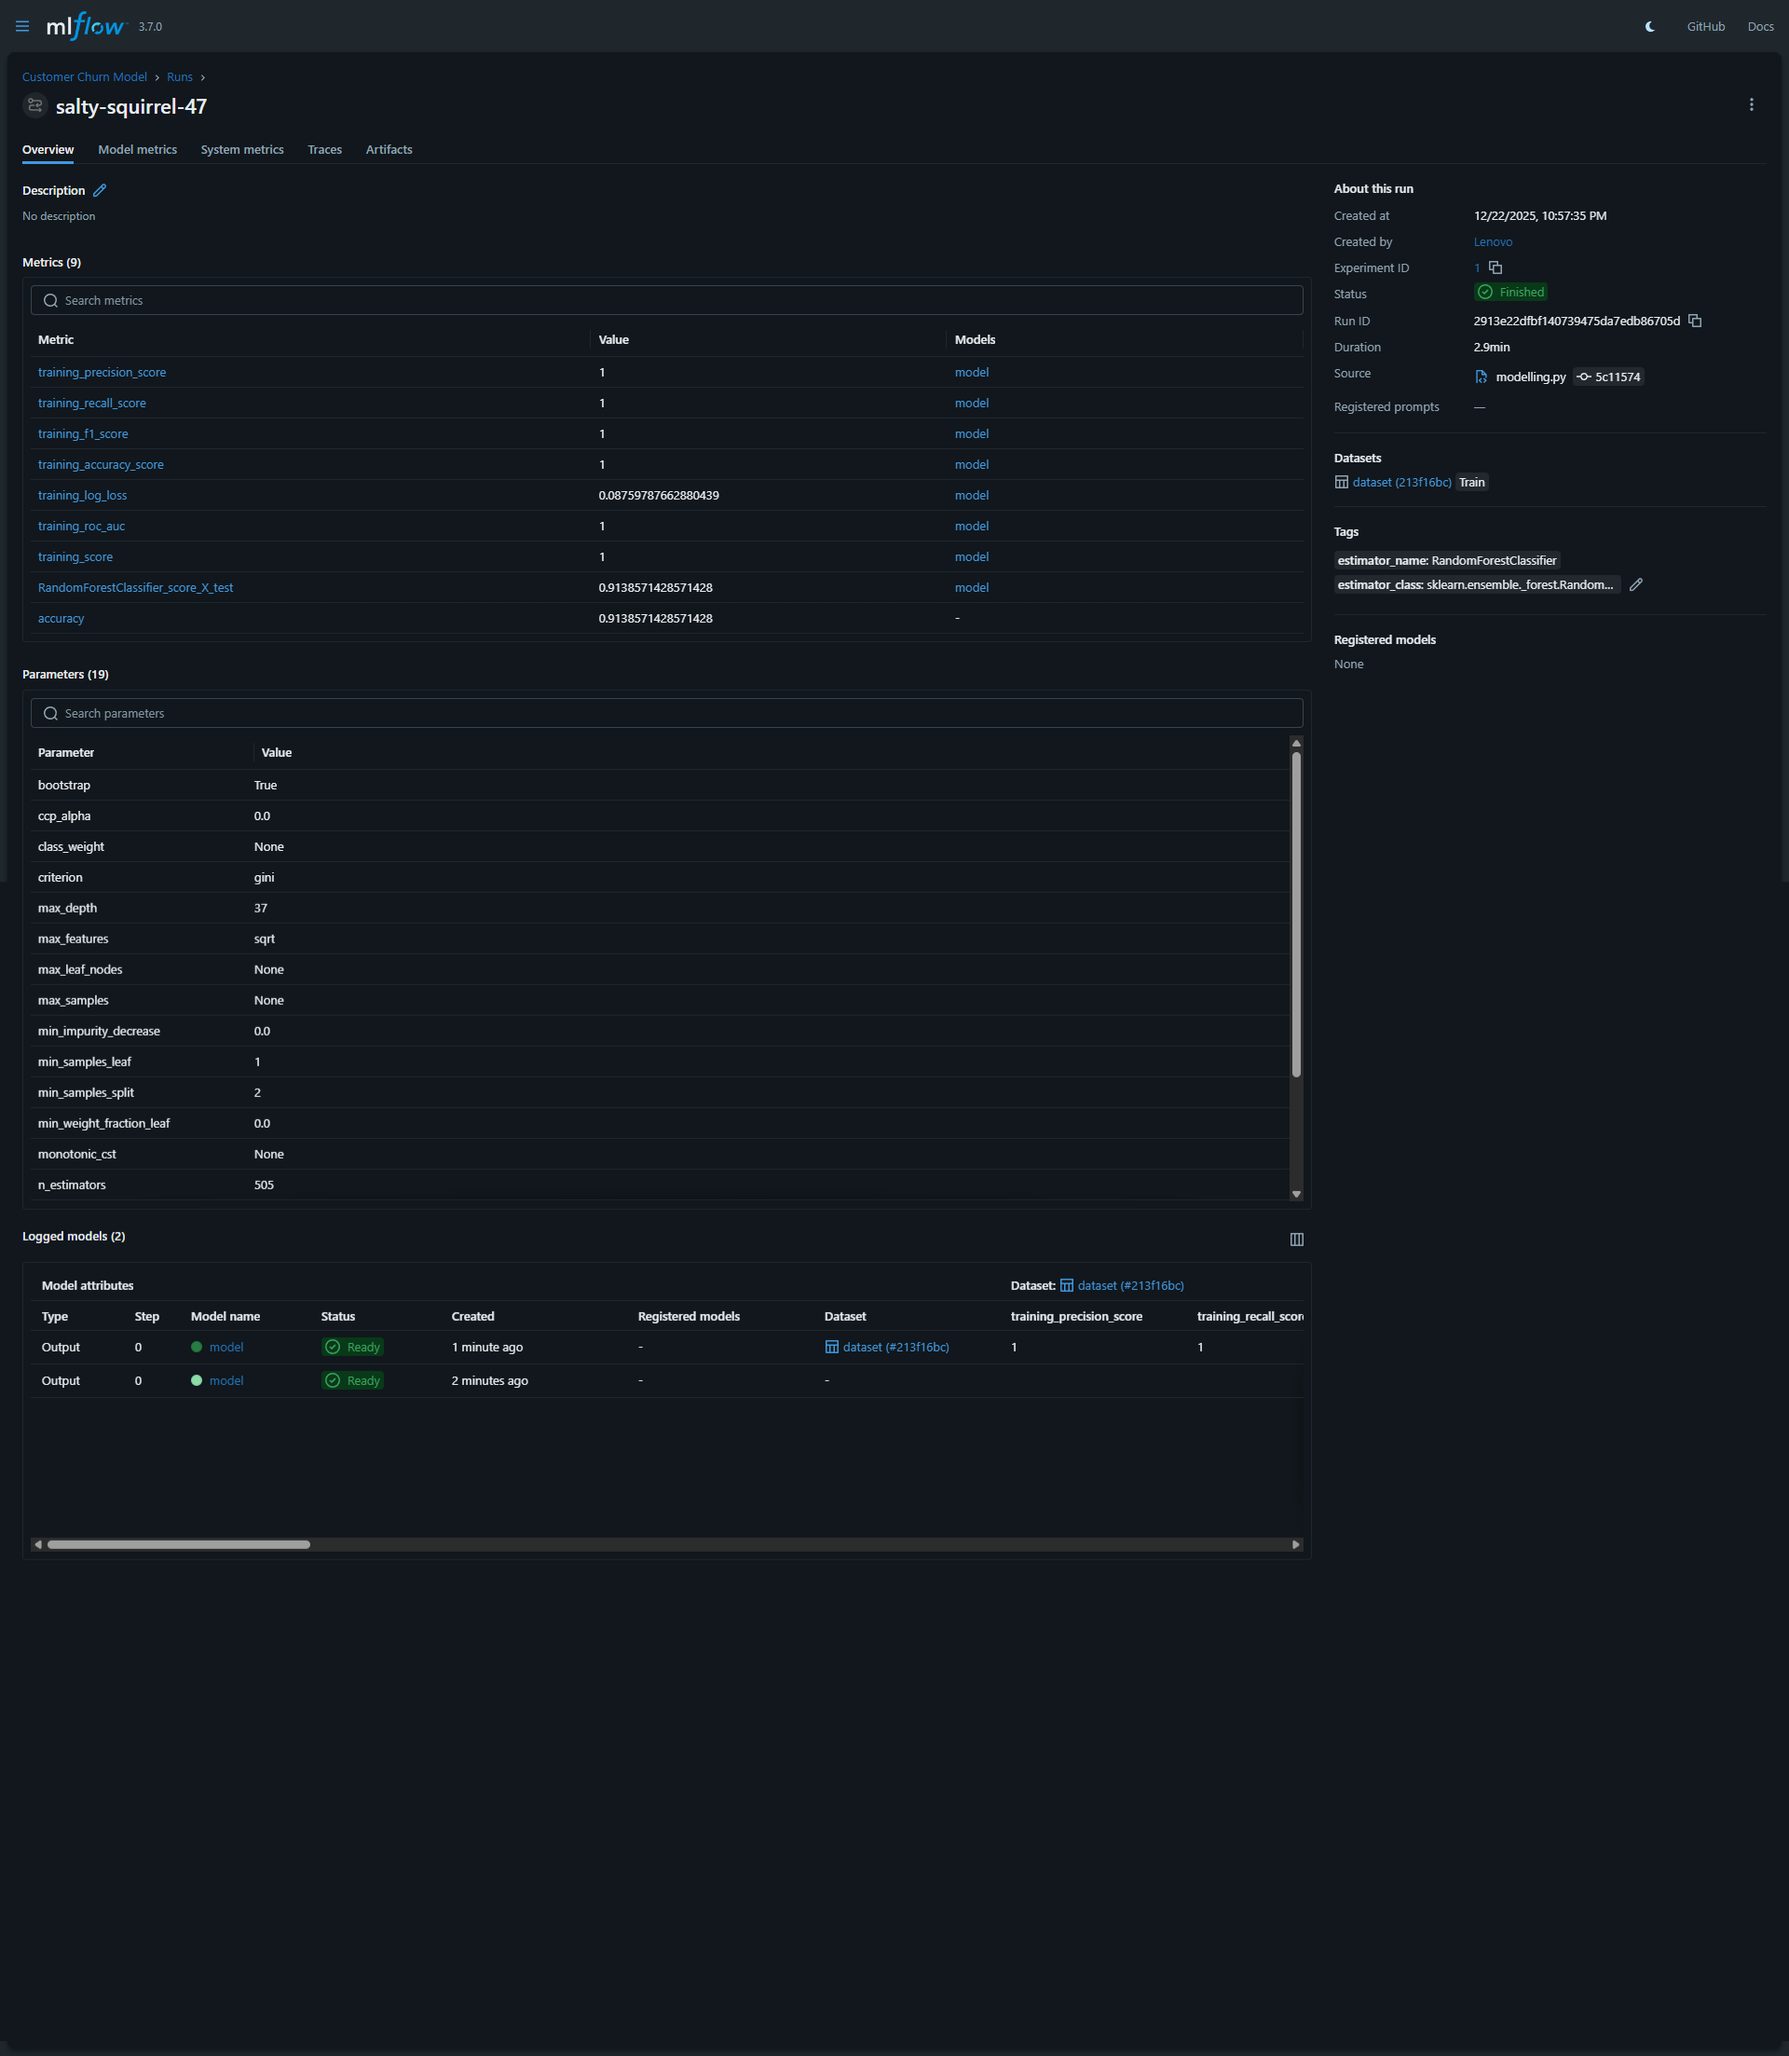
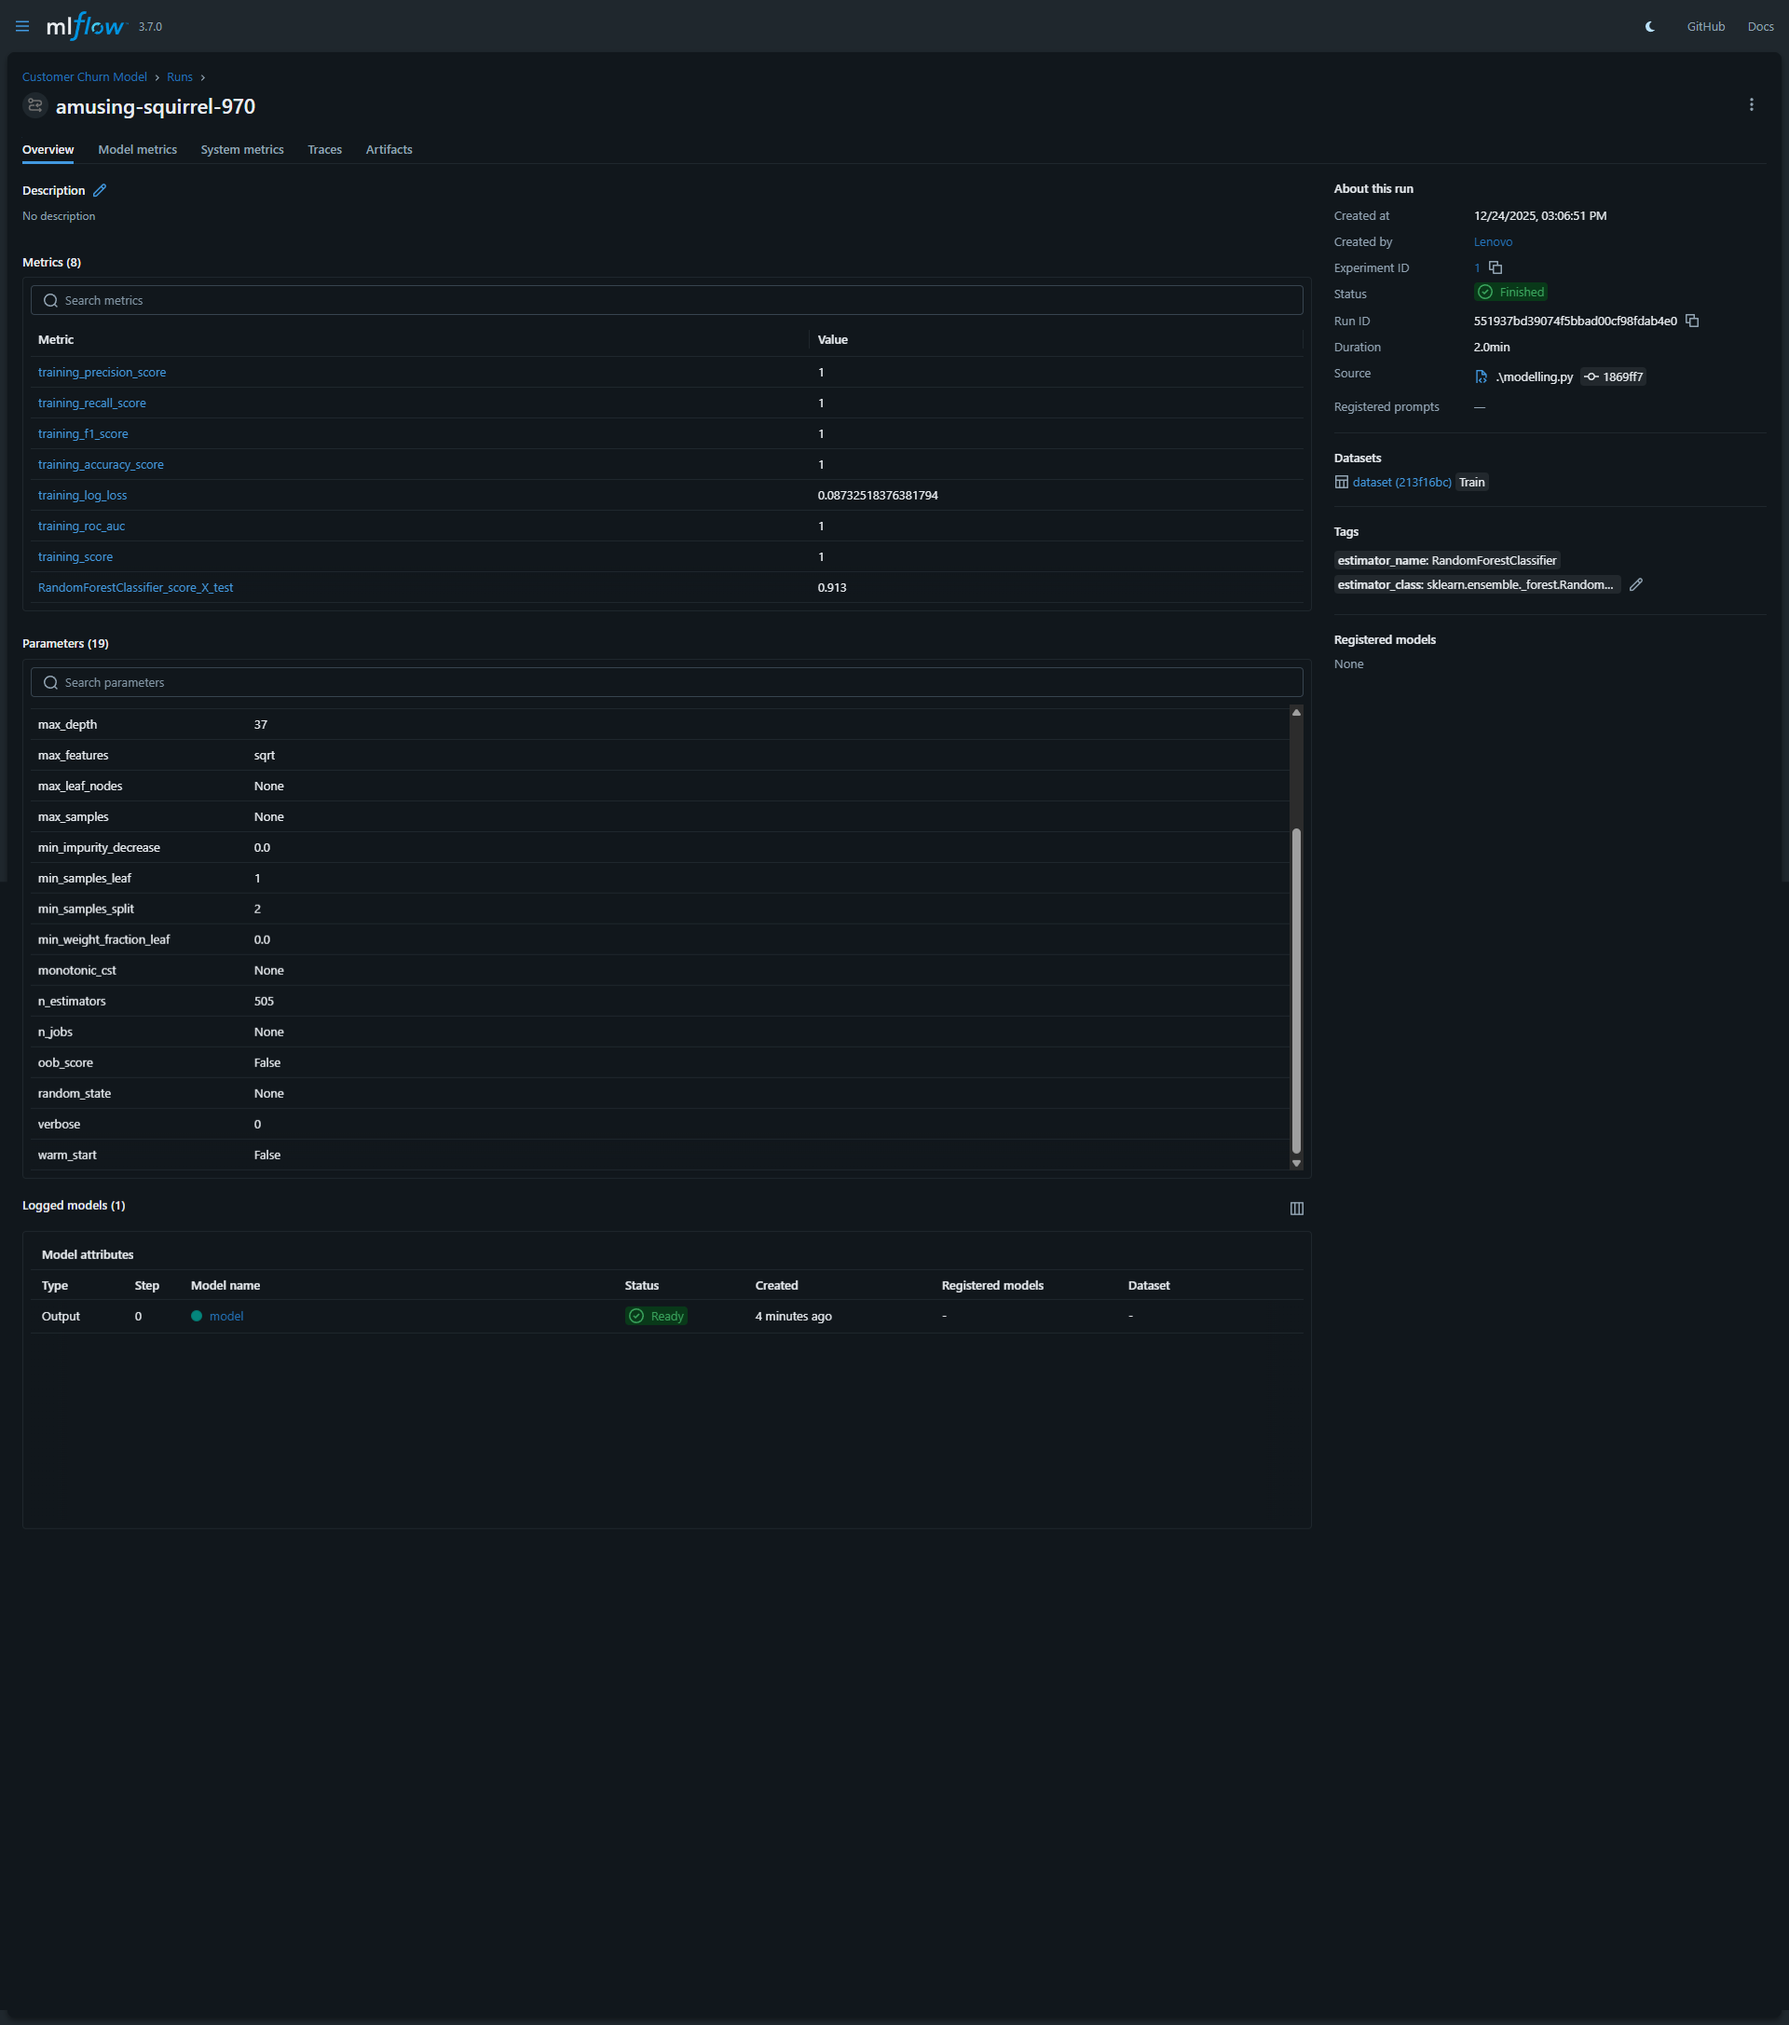
submit submission

diff --git a/membangun_model/modelling.py b/membangun_model/modelling.py
@@ -24,7 +24,8 @@ with mlflow.start_run():
     # Log parameters
     n_estimators = 505
     max_depth = 37
-    mlflow.autolog()
+    mlflow.autolog(log_models=False)
+    
     # Train model
     model = RandomForestClassifier(n_estimators=n_estimators, max_depth=max_depth)
     mlflow.sklearn.log_model(
@@ -35,4 +36,6 @@ with mlflow.start_run():
     model.fit(X_train, y_train)
     # Log metrics
     accuracy = model.score(X_test, y_test)
-    mlflow.log_metric("accuracy", accuracy)
+    # mlflow.log_metric("accuracy", accuracy)
+    # mlflow.log_artifact("training_confusion_matrix.png")
+    # mlflow.log_artifacts("model", artifact_path="model_folder_logs")
